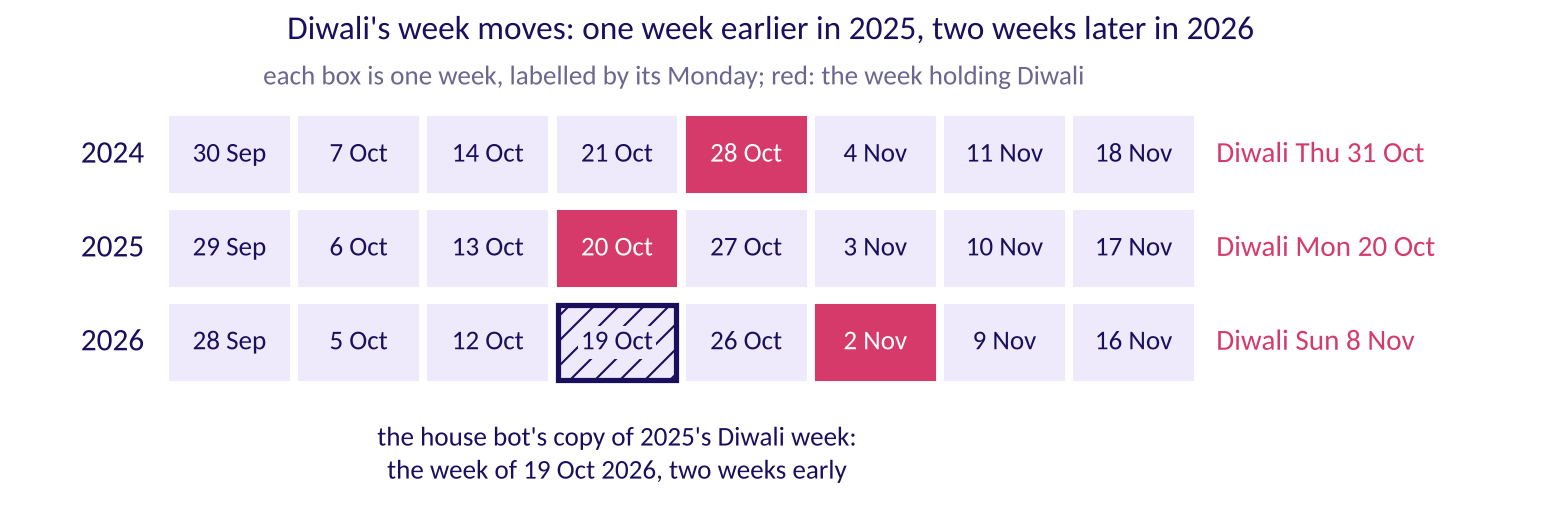
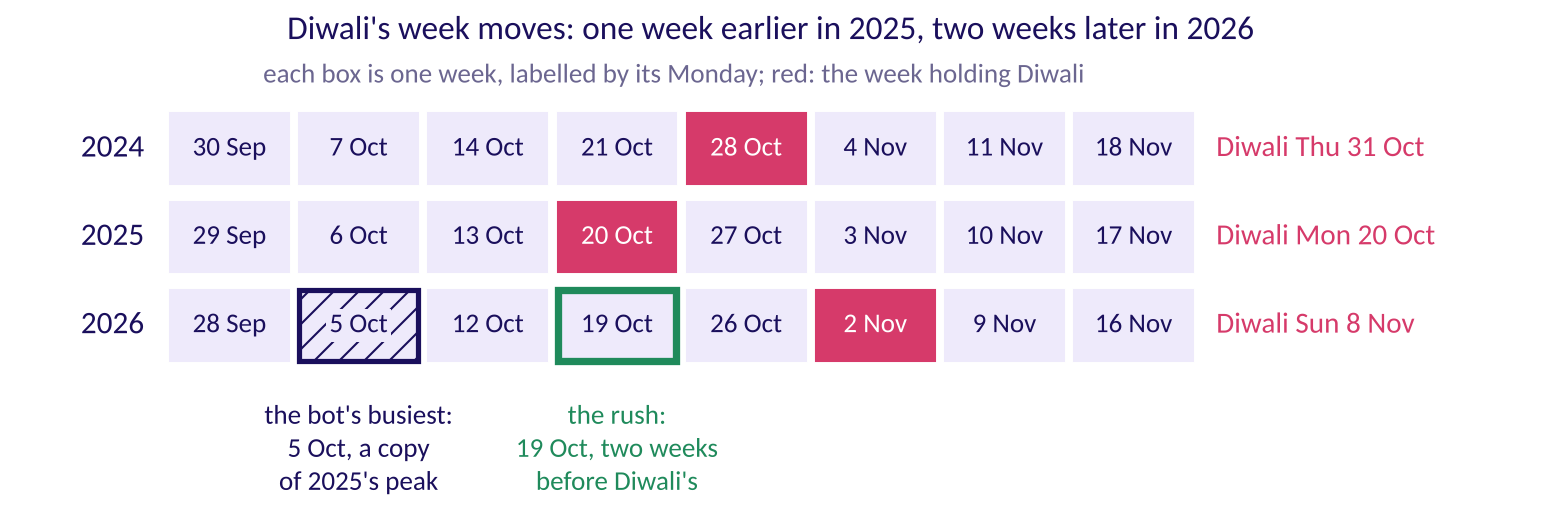
W04 D5: the 2025 back-test runs with no growth, good enough and the cost range are priced, and the stall's figures label each marker once
The generator adds the facts the cold reads asked for: festival-aligned on 2025's festival with no
growth (10,575 a week, Diwali 2025's week 12,000 low), the rolling origin with no growth (13,040),
a better forecast's worth (Rs 542 to Rs 2,500 a week), the ticket's cost ranges (the vendor cheaper
in 5 of 9 pairings), the peak week's range priced and the hidden weeks' MAPE. The case CSVs stay
byte-identical to main. The figures redraw the stall's rules and fit, the festival calendar with the
bot's busiest week hatched, and the back-test and rolling origin with no growth.

Claude-Session: https://claude.ai/code/session_01Ey99XQtchbgeMsPeBDVB4c

diff --git a/content/W04/D5/internal/C2_W04_D05_make_data_INTERNAL.py b/content/W04/D5/internal/C2_W04_D05_make_data_INTERNAL.py
@@ -669,6 +669,9 @@ def stall_facts(F, stall, tables, y, ahead, S):
           ["half1 SECTION 4", "notebook 04"])
     F.toy("ch4_differences", d1 + d2 + [d3], "4, -6, 12; -10, 18; 28", concept(4, "the four days' differences, three rounds deep"), ["half1 SECTION 4", "notebook 04"])
     F.toy("ch4_curve", cubic5, str(cubic5), concept(4, "the curve through all four days, extended to day 5"), ["half1 SECTION 4", "notebook 04", "notes", "c4 set"])
+    F.toy("ch4_curve_next_d2", d2[-1] + d3, str(d2[-1] + d3), concept(4, "the next second difference: 18 + 28"), ["half1 SECTION 4", "notebook 04"])
+    F.toy("ch4_curve_next_d1", d1[-1] + d2[-1] + d3, str(d1[-1] + d2[-1] + d3), concept(4, "the next first difference: 12 + 46"),
+          ["half1 SECTION 4", "notebook 04"])
     F.toy("ch4_curve_mean", (cubic5 + line5) / 2, f"{(cubic5 + line5) / 2:.1f}", concept(4, "the average of the curve and the line, a wrong option"), ["c4 set"])
     for name, f in (("line", line5), ("curve", cubic5), ("naive", days5[3])):
         F.toy(f"ch4_miss_{name}", abs(f - days5[4]), f"{abs(f - days5[4]):.0f}", concept(4, f"the {name}'s miss on day 5"),
@@ -719,6 +722,22 @@ def stall_facts(F, stall, tables, y, ahead, S):
     better = 100
     moved_w = [math.ceil(ahead["aligned"][i] / PER_SHIFT) - math.ceil((ahead["aligned"][i] - better) / PER_SHIFT) for i in WINDOW]
     F.add("good_enough", "better_by", better, "100 shipments", "a rule that beat festival-aligned by this much a week", "half2 SECTION 7, notebook 04, notebook 07")
+    F.add("good_enough", "better_saves_rs", better * LATE_RS, f"Rs {better * LATE_RS:,}",
+          "the most an MAE 100 lower saves a week: 100 late shipments at Rs 25", "half2 SECTION 7, notebook 07, notes")
+    F.add("good_enough", "better_saves_low_rs", better * OVER_RS, f"Rs {better * OVER_RS:,.0f}",
+          "the least it saves a week: 100 spare shipments at Rs 5.42", "half2 SECTION 7, notebook 07, notes")
+    F.add("good_enough", "better_window_low_rs", 8 * better * OVER_RS, f"Rs {round(8 * better * OVER_RS, -2):,.0f}",
+          "the same over the eight window weeks, low end", "half2 SECTION 7, notebook 07")
+    F.add("good_enough", "better_window_high_rs", 8 * better * LATE_RS, f"Rs {8 * better * LATE_RS:,}",
+          "the same over the eight window weeks, high end", "half2 SECTION 7, notebook 07")
+    for late in (LATE_LOW, LATE_RS, LATE_HIGH):       # does the priced ranking survive the ticket's cost ranges?
+        for idle in (IDLE_LOW, IDLE_SHIFT_RS, IDLE_HIGH):
+            for m in ("aligned", "vendor"):
+                c = S[m]["under"] * late + S[m]["over"] * idle / PER_SHIFT
+                F.add("sensitivity", f"{m}_late{late}_idle{idle}_rs", c, lakh(c), f"{m}'s hidden-week misses at Rs {late} late and Rs {idle} an idle shift", "half1 S56, transcripts")
+    wins = sum(S["vendor"]["under"] * late + S["vendor"]["over"] * idle / PER_SHIFT < S["aligned"]["under"] * late + S["aligned"]["over"] * idle / PER_SHIFT
+               for late in (LATE_LOW, LATE_RS, LATE_HIGH) for idle in (IDLE_LOW, IDLE_SHIFT_RS, IDLE_HIGH))
+    F.add("sensitivity", "vendor_cheaper_corners", wins, f"{wins} of 9", "cost pairs from the ticket's ranges at which the vendor's misses cost less", "half1 S56, transcripts")
     F.add("good_enough", "better_shifts_moved", moved_w, ", ".join(map(str, moved_w)),
           "shifts such a rule would book differently in each window week, 12 Oct to 30 Nov 2026", "half2 SECTION 7, notebook 07")
     F.add("good_enough", "better_weeks_moved", sum(1 for m in moved_w if m), f"{sum(1 for m in moved_w if m)} of 8",
@@ -828,6 +847,8 @@ def main():
     F.add("ticket", "over_rs", OVER_RS, "Rs 5.42", "650 / 120, the cost of one shipment planned and not shipped", "chapter 3")
     F.add("ticket", "cost_ratio", LATE_RS / OVER_RS, "4.6", "25 / 5.42", "chapter 3")
     F.add("ticket", "plan_quantile", QUANTILE, "0.82", "25 / (25 + 5.42)", "chapter 3")
+    F.add("ticket", "quantile_scale_rs", LATE_RS + OVER_RS, f"Rs {LATE_RS + OVER_RS:.2f}",
+          "the two costs added: the priced miss is this times the pinball loss at 0.82", "transcripts")
     F.add("ticket", "cost_sum", LATE_RS + OVER_RS, "30.42", "25 + 5.42", "chapter 3")
     F.add("ticket", "diwali_2024", "2024-10-31", "Thursday 31 October 2024", "F5; the week of 28 Oct 2024", "ticket")
     F.add("ticket", "diwali_2025", "2025-10-20", "Monday 20 October 2025", "F5; the week of 20 Oct 2025", "ticket")
@@ -847,6 +868,8 @@ def main():
     F.add("hand_count", "naive_miss", y[54] - y[55], n(y[54] - y[55]), "naive minus actual", "chapter 1")
     F.add("hand_count", "bot_miss", y[3] - y[55], n(y[3] - y[55]), "bot minus actual", "chapter 1")
     F.add("hand_count", "aligned_miss", fa55 - y[55], n(fa55 - y[55]), "aligned minus actual", "chapter 1")
+    F.add("hand_count", "aligned_nogrowth_miss", y[4] - y[55], n(y[4] - y[55]),
+          "festival-aligned with no growth, as October 2025 could run it: 28 Oct 2024 minus the actual", "half1 S44, notebook 05, notes")
     F.add("hand_count", "peak_2024", y[2], n(y[2]), "the 2024 peak, week of 14 Oct 2024, two weeks before Diwali", "chapter 1")
     F.add("hand_count", "peak_2025", y[53], n(y[53]), "the 2025 peak, week of 6 Oct 2025, two weeks before Diwali", "chapter 1")
     F.add("hand_count", "bot_peak_2025", y[2], n(y[2]), "the bot's biggest 2025 week is 13 Oct 2025, a copy of 14 Oct 2024", "chapter 1")
@@ -903,6 +926,9 @@ def main():
     errs = [(y[i] - hold["aligned"][i]) / hold["aligned"][i] for i in HOLDOUT]
     cushion = round(quantile(errs, QUANTILE), 3)       # the planner rounds it to a tenth of a percent
     F.add("holdout", "aligned_low_weeks", 13 - S["aligned"]["high_weeks"], f"{13 - S['aligned']['high_weeks']}", "weeks the aligned baseline sat below the actual", "chapter 2 second route")
+    for m in ("aligned", "finance", "bot", "drift", "naive", "vendor"):
+        mp = sum(abs(hold[m][i] - y[i]) / y[i] for i in HOLDOUT) / len(HOLDOUT)
+        F.add("holdout", f"{m}_mape", mp, pct(mp, 2), f"{m}'s MAPE on the 13 hidden weeks", "notebook 06, half2 D2")
     F.add("holdout", "aligned_err_min_pct", min(errs), pct(min(errs)), "the aligned baseline's lowest error, actual minus forecast over forecast", "chapter 3")
     F.add("holdout", "aligned_err_max_pct", max(errs), pct(max(errs)), "its highest error", "chapter 3")
     F.add("holdout", "cushion_pct", cushion, pct(cushion), "the 0.82 quantile of those 13 errors, rounded to a tenth of a percent", "chapter 3")
@@ -974,6 +1000,12 @@ def main():
     F.add("rolling_origin", "naive_mae", rn, n(rn), "naive's five one-week-ahead misses, averaged", "fallback part 2")
     F.add("rolling_origin", "aligned_mae", ra, n(ra), "festival-aligned's five misses, averaged", "fallback part 2")
     F.add("rolling_origin", "ratio", rn / ra, f"about {rn / ra:.0f}", "naive's average miss over festival-aligned's", "fallback part 2")
+    for i in range(53, 58):                           # the same five steps with no growth, which October 2025 could not measure
+        F.add("rolling_origin", f"aligned_nogrowth_{week(i):%m_%d}", y[i - 51], n(y[i - 51]), f"festival-aligned with no growth for {dmy(i)}", "fallback part 2")
+        F.add("rolling_origin", f"aligned_nogrowth_miss_{week(i):%m_%d}", y[i - 51] - y[i], n(y[i - 51] - y[i]), "that minus actual", "fallback part 2")
+    ra0 = sum(abs(y[i - 51] - y[i]) for i in range(53, 58)) / 5
+    F.add("rolling_origin", "aligned_nogrowth_mae", ra0, n(ra0), "festival-aligned's five misses with no growth, averaged", "fallback part 2")
+    F.add("rolling_origin", "ratio_nogrowth", rn / ra0, f"about {rn / ra0:.1f}", "naive's average miss over that", "fallback part 2")
 
     # ---- the 2025 festive back-test
     for m, s in B.items():
@@ -1077,6 +1109,12 @@ def main():
     F.add("interview", "peak_high_late_rs", (hi_d - plan[pk]) * LATE_RS, lakh((hi_d - plan[pk]) * LATE_RS),
           "the plan's late shipments at the high end, at Rs 25", "transcripts")
     F.add("interview", "peak_low_shifts", math.ceil(lo_d / PER_SHIFT), n(math.ceil(lo_d / PER_SHIFT)), "shifts the low end needs", "transcripts")
+    F.add("error_range", "peak_low_spare_rs", (ahead["aligned"][pk] - lo_d) * OVER_RS, lakh((ahead["aligned"][pk] - lo_d) * OVER_RS),
+          "booked at the forecast, the week of 19 Oct 2026's spare shipments at the range's low end, at Rs 5.42", "half2 S7, notes, staffing note")
+    F.add("error_range", "peak_high_late_rs", (hi_d - ahead["aligned"][pk]) * LATE_RS, lakh((hi_d - ahead["aligned"][pk]) * LATE_RS),
+          "booked at the forecast, its late shipments at the range's high end, at Rs 25", "half2 S7, notes, staffing note")
+    F.add("error_range", "mae_share_of_level", S["aligned"]["mae"] / (sum(y[i] for i in HOLDOUT) / len(HOLDOUT)),
+          pct(S["aligned"]["mae"] / (sum(y[i] for i in HOLDOUT) / len(HOLDOUT))), "festival-aligned's MAE over the hidden weeks' average week", "half2 S7, notes")
     F.add("interview", "peak_high_shifts", math.ceil(hi_d / PER_SHIFT), n(math.ceil(hi_d / PER_SHIFT)), "shifts the high end needs", "transcripts")
     srt_e = sorted(errs)
     pos = QUANTILE * (len(errs) + 1)
@@ -1194,6 +1232,10 @@ def main():
     F.add("exercises", "pair1_gap", S["bot"]["mae"] - 9_800, n(S["bot"]["mae"] - 9_800), "the bot's MAE minus team A's", "chapter 2 set")
     F.add("exercises", "pair1_gap_shifts", (S["bot"]["mae"] - 9_800) / PER_SHIFT, f"{(S['bot']['mae'] - 9_800) / PER_SHIFT:.1f}",
           "31 shipments a week over 120 a shift", "chapter 2 set")
+    F.add("exercises", "pair1_vs_aligned", 9_800 - S["aligned"]["mae"], n(9_800 - S["aligned"]["mae"]), "team A's MAE above festival-aligned's", "chapter 4 set")
+    F.add("exercises", "pair3_lead", S["aligned"]["mae"] - 6_200, n(S["aligned"]["mae"] - 6_200), "team C's lead over festival-aligned, shipments a week", "chapter 4 set")
+    F.add("exercises", "pair3_lead_rs", (S["aligned"]["mae"] - 6_200) * LATE_RS, f"about Rs {round((S['aligned']['mae'] - 6_200) * LATE_RS, -2):,.0f}",
+          "the most that lead saves a week: each shipment a late one at Rs 25", "chapter 4 set")
     F.add("exercises", "ch1_series_a", [100, 104, 108, 112, 116, 120, 124, 128, 132, 136, 140, 144], "100, 104, 108", "invented: a climb", "chapter 1 set")
     F.add("exercises", "ch1_series_b", [100, 130, 100, 70] * 3, "100, 130, 100, 70", "invented: a repeat of four", "chapter 1 set")
     F.add("exercises", "ch1_series_c", [100, 132, 104, 76, 108, 140, 112, 84, 116, 148, 120, 92], "100, 132, 104, 76", "invented: both", "chapter 1 set")
@@ -1241,6 +1283,8 @@ def main():
           pct(kmae["vendor"] / kmae["seasonal_naive"] - 1, 0), "vendor MAE over the seasonal naive's, minus one", "lab")
     for m in months:
         F.add("kalpa_months", f"rev_{m.replace('-', '_')}", rev[m], lakh(rev[m]), f"Kalpa revenue, {m}", "lab")
+    F.add("kalpa_months", "nov_mar_two_places", [round(rev["2025-11"] / 1e5, 2), round(rev["2026-03"] / 1e5, 2)],
+          f"{rev['2025-11'] / 1e5:.2f} and {rev['2026-03'] / 1e5:.2f}", "Nov 2025 and Mar 2026 in Rs lakh to two places, which one place prints alike", "Kalpa board set")
     for m in hold_m:
         F.add("kalpa_months", f"v4_{m.replace('-', '_')}", v4sums[m], lakh(v4sums[m]), f"sum of v4 orders.amount, {m}", "lab")
         F.add("kalpa_months", f"vendor_{m.replace('-', '_')}", kv[m], lakh(kv[m]), f"the vendor's forecast from Mar 2026, {m}", "lab, Kalpa set")
@@ -1333,6 +1377,7 @@ def main():
     F.add("guesstimate", "households", hh, "30 crore", "Indian households, assumption, range 28 to 32 crore", "half2, transcript")
     F.add("guesstimate", "own_share", own, "half", "share of households with a two-wheeler, assumption, range 40 to 60 percent", "half2, transcript")
     F.add("guesstimate", "replace_years", years, "8 years", "years before a household replaces it, assumption, range 6 to 10", "half2, transcript")
+    F.add("guesstimate", "replace_years_range", [6, 10], "6 to 10 years", "the replacement years' assumed range", "half2 D4, transcript")
     F.add("guesstimate", "replacement", repl, f"about {repl / 1e7:.1f} crore", "30 crore x 0.5 / 8", "half2, transcript")
     F.add("guesstimate", "first_time", first, "15 percent", "first-time buyers on top, assumption, range 10 to 20 percent", "half2, transcript")
     F.add("guesstimate", "estimate", est, f"about {est / 1e7:.1f} crore", "replacement x 1.15, 2.16 unrounded", "half2, transcript")

diff --git a/content/W04/D5/internal/C2_W04_D05_figures_INTERNAL.py b/content/W04/D5/internal/C2_W04_D05_figures_INTERNAL.py
@@ -265,19 +265,20 @@ def festival_calendar(copy=True):
             ax.add_patch(plt.Rectangle((c, -row), 0.92, 0.8, color=ROSE if hot else TINT))
             ax.text(c + 0.46, -row + 0.4, dm(first + c), ha="center", va="center", fontsize=13, zorder=5,
                     color="white" if hot else INK,
-                    bbox=dict(facecolor=TINT, edgecolor="none", pad=1.5) if (copy and row == 2 and c == 3) else None)
+                    bbox=dict(facecolor=TINT, edgecolor="none", pad=1.5) if (copy and row == 2 and c == 1) else None)
         ax.text(-0.2, -row + 0.4, f"{yr}", ha="right", va="center", fontsize=15)
         ax.text(8.1, -row + 0.4, f"Diwali {label}", va="center", fontsize=14, color=ROSE)
-    if copy:
-        ax.add_patch(plt.Rectangle((3, -2), 0.92, 0.8, fill=False, edgecolor=INK, lw=2.5, hatch="//"))
-        ax.text(3.46, -2.45, "the house bot's copy of 2025's Diwali week:\nthe week of 19 Oct 2026, two weeks early",
-                ha="center", va="top", fontsize=13)
+    if copy:                                    # round three's vote asks for the bot's busiest week, then where the rush goes
+        ax.add_patch(plt.Rectangle((1, -2), 0.92, 0.8, fill=False, edgecolor=INK, lw=2.5, hatch="//"))
+        ax.add_patch(plt.Rectangle((3, -2), 0.92, 0.8, fill=False, edgecolor=GREEN, lw=3.5))
+        ax.text(1.46, -2.45, "the bot's busiest:\n5 Oct, a copy\nof 2025's peak", ha="center", va="top", fontsize=13)
+        ax.text(3.46, -2.45, "the rush:\n19 Oct, two weeks\nbefore Diwali's", ha="center", va="top", fontsize=13, color=GREEN)
     else:
         ax.text(3.46, -2.45, "2026: where will a copy of last year put the rush?\nround three asks",
                 ha="center", va="top", fontsize=13)
     ax.text(3.9, 1.15, "each box is one week, labelled by its Monday; red: the week holding Diwali",
             ha="center", fontsize=13, color=MUTED)
-    ax.set_xlim(-1.2, 10.5); ax.set_ylim(-3.3, 1.5)
+    ax.set_xlim(-1.2, 10.5); ax.set_ylim(-3.6, 1.5)
     ax.axis("off")
     ax.set_title("Diwali's week moves: one week earlier in 2025, two weeks later in 2026", fontsize=16)
     save(fig, "festival_calendar" if copy else "festival_calendar_open")
@@ -289,7 +290,8 @@ def backtest():
     xs = list(range(len(idx)))
     ax.plot(xs, [y[i] for i in idx], color=INK, lw=2.8, marker="o", label="2025 actual")
     ax.plot(xs, [back["bot"][i] for i in idx], color=ROSE, lw=2, ls="--", marker="s", label="house bot: same calendar week of 2024")
-    ax.plot(xs, [back["aligned"][i] for i in idx], color=VIOLET, lw=2, ls="--", marker="^", label="festival-aligned: same distance from Diwali, plus 4 percent")
+    ax.plot(xs, [y[gen.aligned_source(i)] for i in idx], color=VIOLET, lw=2, ls="--", marker="^",   # no growth, as September 2025 could run it
+            label="festival-aligned: same distance from Diwali, no growth")
     ax.set_xticks(xs)
     ax.set_xticklabels([dm(i) for i in idx])
     ax.axvline(3, color=ROSE, ls=":", lw=1.3)
@@ -410,8 +412,8 @@ def rolling_origin():
     xs = list(range(len(idx)))
     ax.plot(xs, [y[i] for i in idx], color=INK, lw=2.8, marker="o", label="actual")
     ax.plot(xs, [y[i - 1] for i in idx], color=ROSE, lw=2, ls="--", marker="s", label="naive: the week before")
-    ax.plot(xs, [round(y[i - 51] * gen.DRIFT) for i in idx], color=VIOLET, lw=2, ls="--", marker="^",
-            label="festival-aligned: 2024 at the same distance, plus 4 percent")
+    ax.plot(xs, [y[i - 51] for i in idx], color=VIOLET, lw=2, ls="--", marker="^",            # no growth: October 2025 could not measure it
+            label="festival-aligned: 2024 at the same distance, no growth")
     ax.set_xticks(xs)
     ax.set_xticklabels([dm(i) + " 2025" for i in idx])
     ax.set_ylim(150_000, 470_000)
@@ -474,14 +476,15 @@ def stall_three_rules():
     fig, ax = plt.subplots(figsize=(12, 4.4))
     xs = list(range(len(t)))
     ax.bar(xs, t.cups, color=[TINT] * 7 + [LINE], edgecolor=VIOLET, lw=1.5)
-    for x, v in zip(xs, t.cups):
-        ax.text(x, v + 2, str(v), ha="center", fontsize=13)
     last = xs[-1]
-    ax.plot(last - 0.2, 103, "D", ms=11, color=MUTED)
-    ax.plot(last + 0.2, 104.67, "D", ms=11, color=AMBER)
-    ax.plot(last + 0.3, 61, "D", ms=11, color=ROSE)
-    ax.text(last + 0.45, 118, "naive 103,\ndrift 104.7", va="center", fontsize=13, color=INK)
-    ax.text(last + 0.45, 66, "seasonal\nnaive 61", va="center", fontsize=13, color=ROSE)
+    for x, v in zip(xs, t.cups):
+        ax.text(x, v + 2 if x < last else v / 2, str(v), ha="center", fontsize=13)   # the last bar's label sits inside it
+    ax.plot(last - 0.25, 103, "D", ms=11, color=MUTED)
+    ax.plot(last + 0.25, 104.67, "D", ms=11, color=AMBER)
+    ax.plot(last + 0.25, 61, "D", ms=11, color=ROSE)
+    ax.text(last - 0.25, 109, "naive\n103", ha="center", va="bottom", fontsize=13, color=MUTED)   # one label per marker
+    ax.text(last + 0.45, 104.67, "drift\n104.7", va="center", fontsize=13, color=AMBER)
+    ax.text(last + 0.45, 61, "seasonal\nnaive 61", va="center", fontsize=13, color=ROSE)
     ax.set_xticks(xs)
     ax.set_xticklabels([f"{d:%a}\n{d.day} {d:%b}" for d in t.date], fontsize=12)
     ax.set_xlim(-0.6, last + 2.4)
@@ -590,12 +593,14 @@ def stall_fit_forecast():
     xs, vals = [1, 2, 3, 4], [100, 104, 98, 110]
     line = np.polyfit(xs, vals, 1)
     curve = np.polyfit(xs, vals, 3)
-    grid = np.linspace(0.8, 5.05, 200)
+    grid = np.linspace(1, 5, 200)                     # day 1 to day 5 and no further, so the curve ends on its 168
     fig, ax = plt.subplots(figsize=(12, 4.6))
     ax.plot(grid, np.polyval(curve, grid), color=ROSE, lw=2.5, label="the curve through all four days")
     ax.plot(grid, np.polyval(line, grid), color=VIOLET, lw=2.5, ls="--", label="the straight line")
     ax.plot(xs, vals, "o", ms=11, color=INK, label="the four days the rules saw")
     ax.plot([5], [102], "s", ms=12, color=GREEN, label="day 5, what sold: 102")
+    ax.plot([5], [np.polyval(curve, 5)], "o", ms=9, color=ROSE)
+    ax.plot([5], [np.polyval(line, 5)], "o", ms=9, color=VIOLET)
     ax.text(5.1, 168, "curve: 168", fontsize=13, color=ROSE, va="center")
     ax.text(5.1, 109, "line: 109", fontsize=13, color=VIOLET, va="center")
     ax.text(5.1, 98, "sold: 102", fontsize=13, color=GREEN, va="center")
